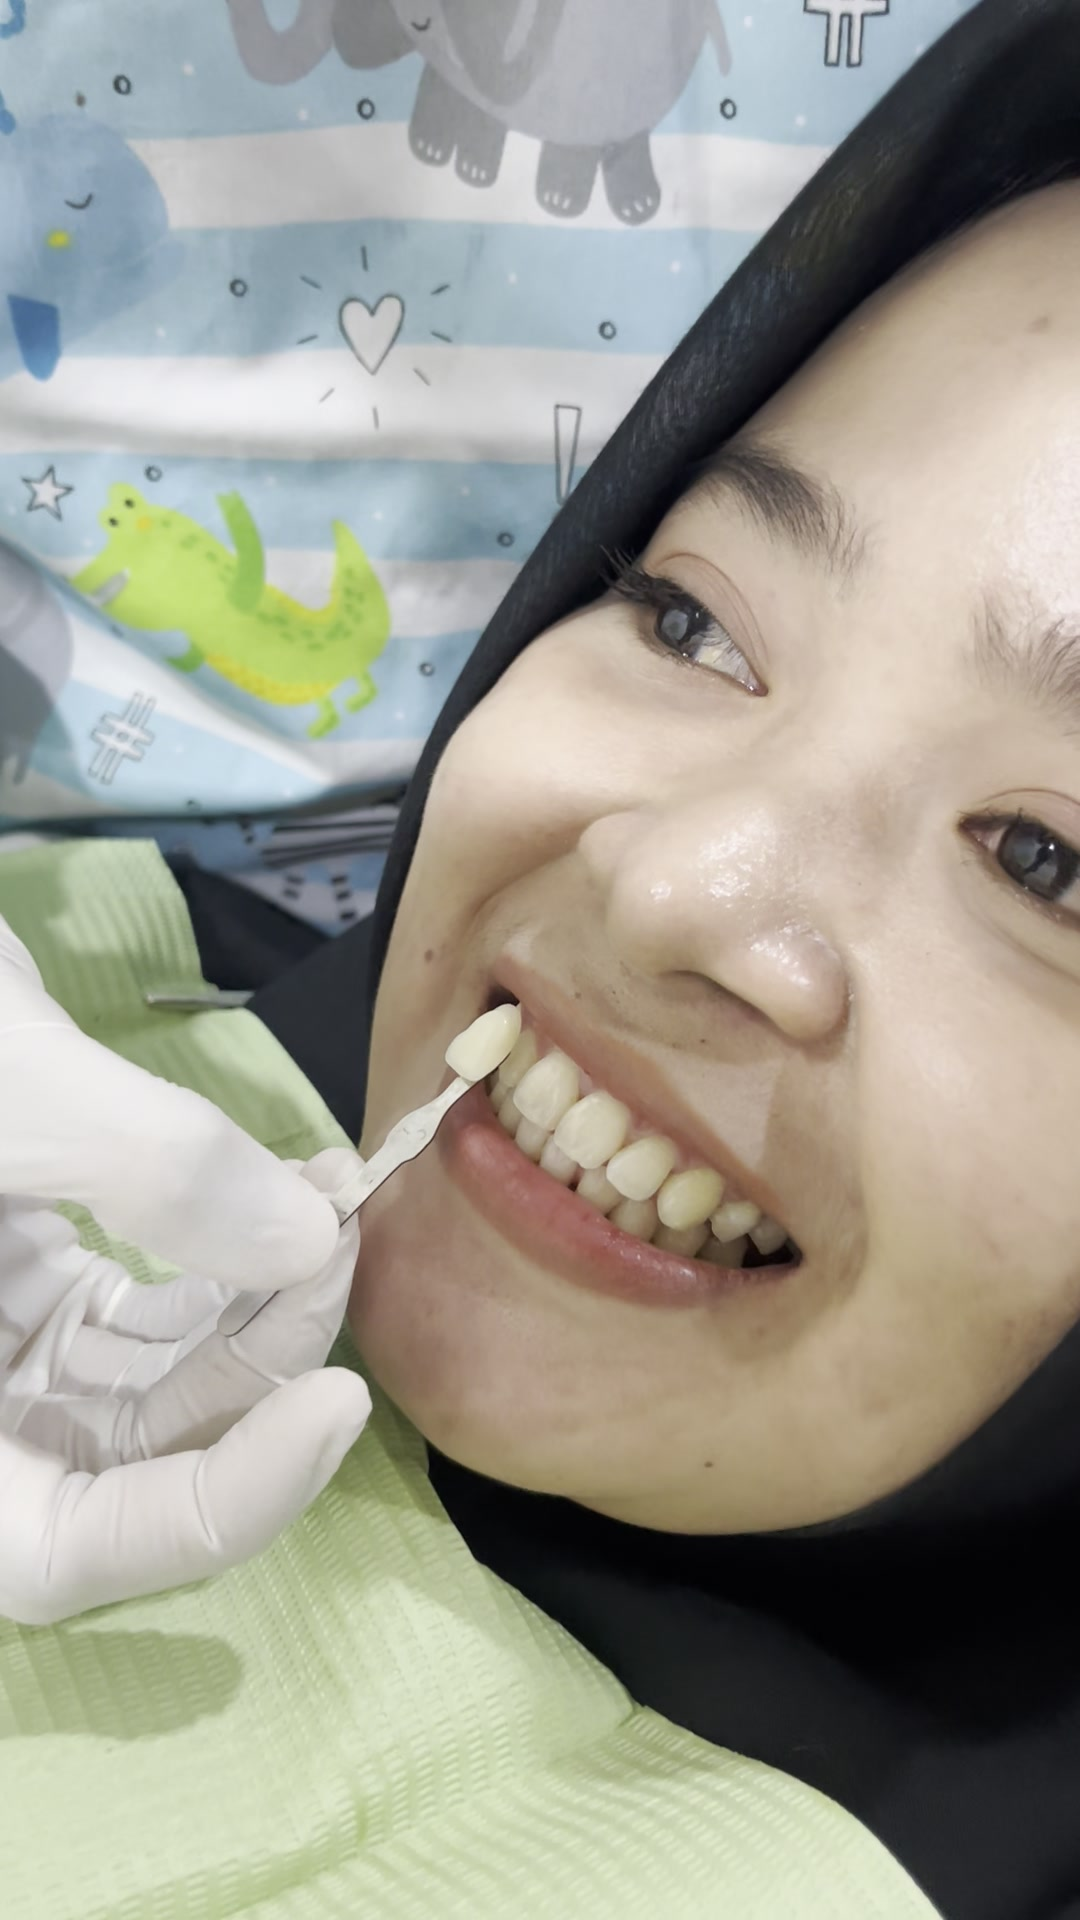
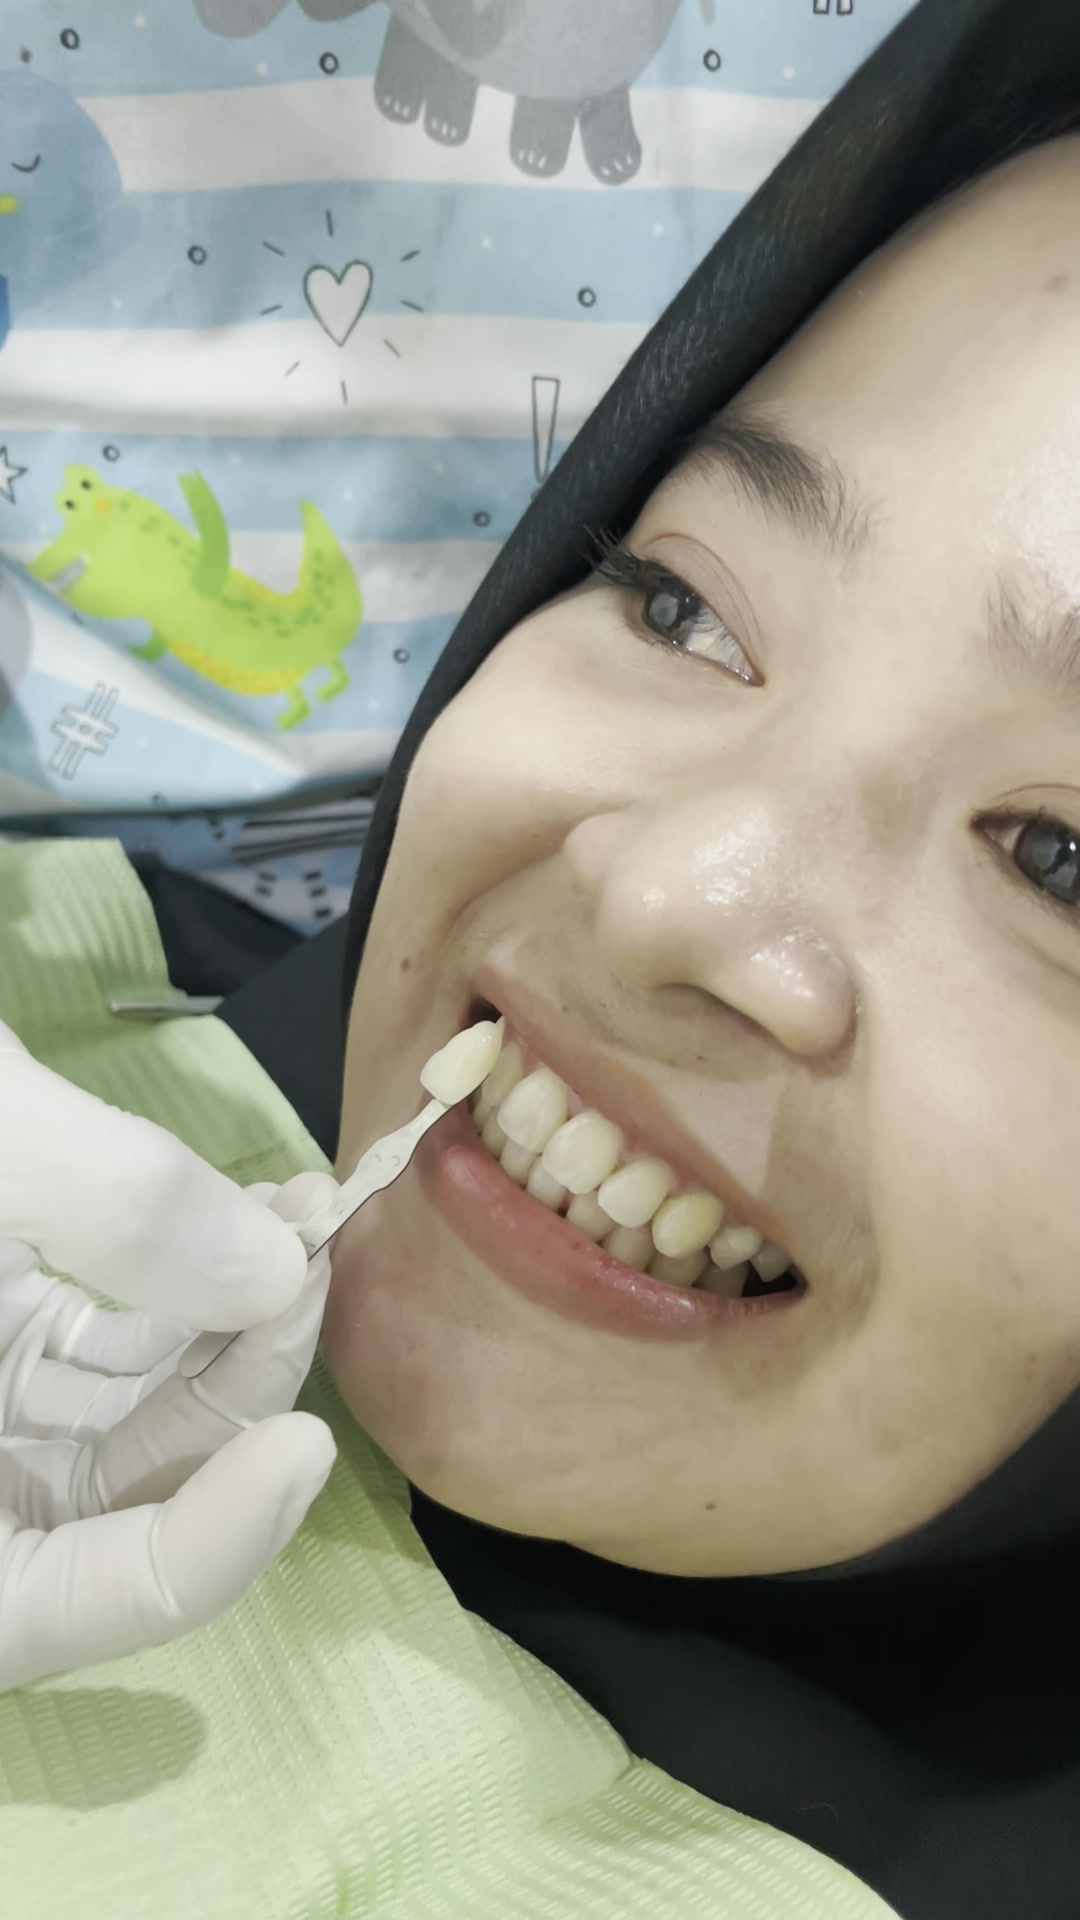
Poster bleaching konsep 1 "Senyum Nyata" v2 (feed & story)
Foto asli pasien (IMG_4331) + kartu putih mengambang, palet/font resmi, logo sekali.

Claude-Session: https://claude.ai/code/session_016b8dWGDojcKkjPQqdVuqxK

diff --git a/.claude/skills/desain-grafis-ruma/templates/poster-foto.html b/.claude/skills/desain-grafis-ruma/templates/poster-foto.html
@@ -1,0 +1,64 @@
+<!doctype html>
+<html><head><meta charset="utf-8">
+<!-- Konsep 1 "Senyum Nyata": foto asli penuh + kartu putih mengambang. Palet & font resmi (references/panduan-visual-ruma.md).
+     Format lewat ?f=feed|story. Posisi foto diatur lewat --y-feed / --y-story (geser ke atas, px). -->
+<style>
+@font-face{font-family:Poppins;font-weight:500;src:url(../assets/fonts/poppins-latin-500-normal.woff2)}
+@font-face{font-family:Poppins;font-weight:600;src:url(../assets/fonts/poppins-latin-600-normal.woff2)}
+@font-face{font-family:Poppins;font-weight:700;src:url(../assets/fonts/poppins-latin-700-normal.woff2)}
+@font-face{font-family:'Open Sans';font-weight:400;src:url(../assets/fonts/open-sans-latin-400-normal.woff2)}
+@font-face{font-family:'Open Sans';font-weight:600;src:url(../assets/fonts/open-sans-latin-600-normal.woff2)}
+:root{--turq:#28CDBD;--mint:#E8F8F6;--deep:#354B49;--silver:#B3B3B3;--soft:#F4F5F4;--muted:#5F6E6C;--y-feed:300px;--y-story:0px}
+*{box-sizing:border-box;margin:0;padding:0}
+.p{position:relative;width:1080px;overflow:hidden;background:var(--soft);color:var(--deep);font-family:'Open Sans',sans-serif}
+.feed{height:1350px}.story{height:1920px}
+.bg{position:absolute;left:0;width:1080px;height:1920px;object-fit:cover}
+.feed .bg{top:calc(-1 * var(--y-feed))}
+.story .bg{top:calc(-1 * var(--y-story))}
+/* redam latar ramai di atas (seragam bermotif): blur + kabut putih lembut */
+.soft{position:absolute;left:0;width:1080px;height:1920px;object-fit:cover;filter:blur(14px) saturate(.55) brightness(1.08);
+  -webkit-mask-image:linear-gradient(to bottom,#000 0,#000 var(--m1),transparent var(--m2));mask-image:linear-gradient(to bottom,#000 0,#000 var(--m1),transparent var(--m2))}
+.feed .soft{top:calc(-1 * var(--y-feed));--m1:520px;--m2:760px}
+.story .soft{top:calc(-1 * var(--y-story));--m1:780px;--m2:1060px}
+.haze{position:absolute;left:0;right:0;top:0;background:linear-gradient(to bottom,rgba(232,248,246,.55),rgba(232,248,246,0))}
+.feed .haze{height:220px}.story .haze{height:420px}
+/* lapisan lembut di bawah agar kartu menyatu */
+.fade{position:absolute;left:0;right:0;bottom:0;height:42%;background:linear-gradient(to bottom,rgba(244,245,244,0),rgba(244,245,244,.85) 70%)}
+
+.card{position:absolute;left:48px;right:48px;background:#fff;border-radius:36px;padding:40px 48px 34px;box-shadow:0 18px 50px rgba(53,75,73,.18)}
+.feed .card{bottom:48px}
+.story .card{bottom:420px}
+
+.top{display:flex;justify-content:space-between;align-items:center}
+.top img{height:50px}
+.label{font:600 24px/1 Poppins;color:var(--deep);background:var(--mint);padding:10px 20px 9px;border-radius:999px}
+h1{font:600 64px/1.12 Poppins;letter-spacing:-.8px;margin-top:26px}
+.lay{display:flex;align-items:center;gap:16px;margin-top:22px;font:600 32px/1 Poppins}
+.chip{font:600 24px/1 Poppins;background:var(--turq);color:var(--deep);padding:9px 18px 10px;border-radius:10px}
+.row{display:flex;align-items:flex-end;justify-content:space-between;margin-top:24px;gap:24px}
+.coret{font:500 26px/1 Poppins;color:var(--muted);display:flex;align-items:center;gap:12px;white-space:nowrap}
+.coret small{font:600 22px/1 Poppins;color:var(--deep);background:var(--mint);padding:6px 12px 7px;border-radius:8px}
+.harga{font:700 56px/1.05 Poppins;letter-spacing:-1px;margin-top:8px;white-space:nowrap}
+.cta{text-align:center}
+.btn{font:600 30px/1 Poppins;background:var(--turq);color:var(--deep);padding:20px 32px 21px;border-radius:999px;white-space:nowrap}
+.wa{font:600 24px/1 'Open Sans';margin-top:12px}
+.disc{font:400 17px/1.4 'Open Sans';color:var(--muted);margin-top:22px;border-top:2px solid var(--soft);padding-top:16px}
+</style></head>
+<body>
+<div class="p" id="poster">
+  <img class="bg" src="../assets/foto/bleaching-C-cek-warna-4331.jpg">
+  <div class="haze"></div>
+  <div class="fade"></div>
+  <div class="card">
+    <div class="top"><img src="../../ruma-dental-video/assets/card_logo.png"><div class="label">Promo Bleaching</div></div>
+    <h1>Senyum lebih cerah,<br>dimulai dari bersih.</h1>
+    <div class="lay">Bleaching <span class="chip">sudah termasuk scaling</span></div>
+    <div class="row">
+      <div><div class="coret"><s>Rp1.700.000</s><small>diskon 10%</small></div><div class="harga">Rp1.530.000</div></div>
+      <div class="cta"><div class="btn">Jadwalkan Konsultasi</div><div class="wa">WA 0898-7735-463</div></div>
+    </div>
+    <div class="disc">Jl. Rusa No. 65, Maricaya, Makassar · Hasil berbeda pada tiap orang. Konsultasikan dengan dokter gigi.</div>
+  </div>
+</div>
+<script>document.getElementById('poster').classList.add(new URLSearchParams(location.search).get('f')||'feed');</script>
+</body></html>
